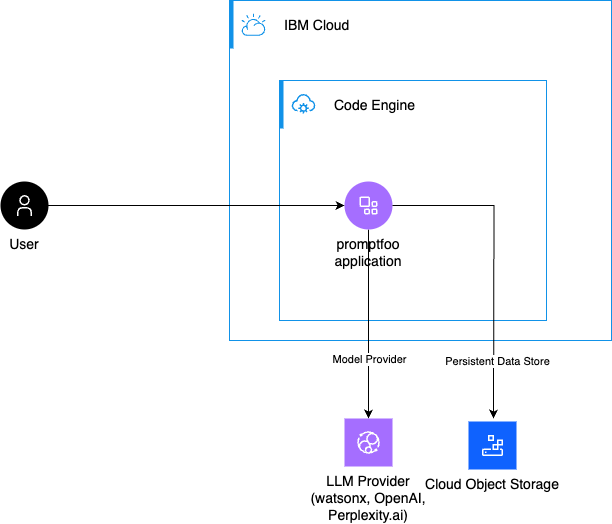
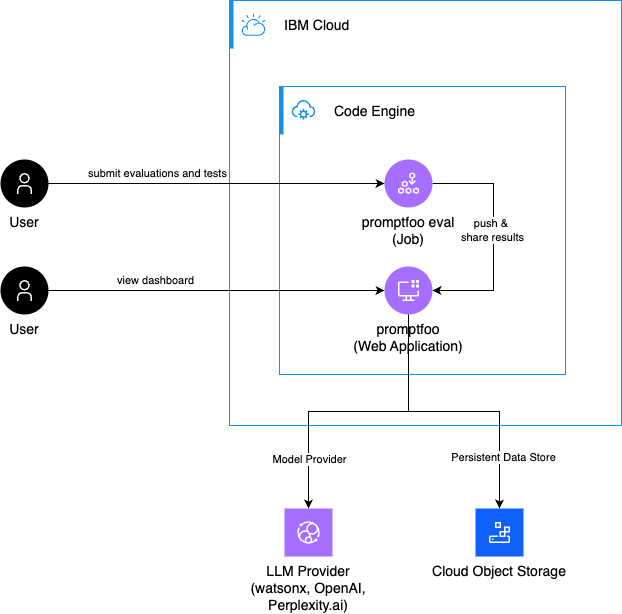
add job example to run promptfoo evaluations

Changed region(s): [[0.0, 0.0, 1.0, 1.0], [0.4346, 0.7328, 0.5588, 0.7634], [0.8693, 0.5802, 0.9003, 0.6107]]

diff --git a/ai/promptfoo/README.md b/ai/promptfoo/README.md
@@ -16,7 +16,7 @@
 
 ## Why Code Engine is a great fit
 
-Using **[IBM Cloud Code Engine](https://www.ibm.com/products/code-engine)** you can host promptfoo's web UI and create a centralized hub for your team's LLM testing and evaluation workflows.
+Using **[IBM Cloud Code Engine](https://www.ibm.com/products/code-engine)** you can run promptfoo evaluations in parallel & scale and host promptfoo's web UI to create a centralized hub for your team's LLM testing and evaluation workflows.
 
 - **Managed runtime:** Code Engine runs containers without managing servers, lowering operational overhead.
 - **Public endpoints:** Apps get a reachable URL out of the box, making it easy to share test results, red-team findings, and evaluation reports with your team.
@@ -24,6 +24,8 @@ Using **[IBM Cloud Code Engine](https://www.ibm.com/products/code-engine)** you 
 - **Integrates with COS:** Object storage (IBM Cloud Object Storage) can be mounted as a persistent data store for test results, configurations, datasets, and historical comparisons.
 - **Secure secrets & PDS:** Use Code Engine secrets and Persistent Data Stores (PDS) to store credentials and mount COS buckets securely.
 - **Team collaboration:** Centralized deployment enables teams to share test suites, compare results, and maintain a single source of truth for LLM quality metrics.
+- **Batch Jobs:** Use Code Engine jobs to run evaluations and tests asynchronously and in parallel
+- **Cron Trigger:** Schedule jobs based on a timer to run tests, collect data, and generate reports
 
 ## Deploy 
 
@@ -77,6 +79,7 @@ You can run promptfoo evaluations locally and share the results with your deploy
 - Run evaluations on your local machine with your preferred configuration
 - View and share results through the hosted web UI
 - Collaborate with team members by pointing them to the shared URL
+
 
 ### Setup
 
@@ -136,13 +139,67 @@ promptfoo eval
 promptfoo share
 ```
 
-This will open the local viewer, but you can also access the shared results through your deployed Code Engine URL.
+### Running evaluations asynchronously
 
-![](./images/promptfoo_ui.png)
+If you need to run many evaluations you can run them as [Code Engine jobs](https://cloud.ibm.com/docs/codeengine?topic=codeengine-cebatchjobs) asynchronously and in parallel within the same project. 
+
+```bash
+# create a config map from the promptfooconfig.yaml file
+ibmcloud ce configmap create -n promptfooconfig --from-file promptfooconfig.yaml
+
+# submit the job
+ibmcloud ce jobrun submit -n promptfoo-eval-1 --mount-configmap /app/config=promptfooconfig --image ghcr.io/promptfoo/promptfoo:latest --command promptfoo --arg eval --arg "-c" --arg "/app/config/promptfooconfig.yaml" 
+
+# view logs of the job run
+ibmcloud ce jobrun logs -n promptfoo-eval-1
+```
+
+The results will look as follows:
+
+```
+promptfoo-eval-1-0-0/promptfoo-eval-1:
+Starting evaluation eval-LcA-2026-03-18T16:09:03
+Running 4 test cases (up to 4 at a time)...
+Creating cache folder at /home/promptfoo/.promptfoo/cache.
+
+┌────────────────────────────────────────┬────────────────────────────────────────┬────────────────────────────────────────┐
+│ topic                                  │ [sonar-pro] Write a tweet about        │ [sonar-pro] Write a concise, funny     │
+│                                        │ {{topic}}                              │ tweet about {{topic}}                  │
+├────────────────────────────────────────┼────────────────────────────────────────┼────────────────────────────────────────┤
+│ bananas                                │ [PASS] Bananas are booming! 🌍 Global  │ [PASS] "Why did the banana go to       │
+│                                        │ market hitting $147.82B in 2026, up    │ therapy? It had too many emotional     │
+│                                        │ 3.1% YoY, fueled by health perks like  │ **peelings** and couldn't find its     │
+│                                        │ potassium & fiber. Rwanda leads per    │ a-peel!"[1][2]                         │
+│                                        │ capita at 116kg/year—who's stocking    │                                        │
+│                                        │ up? 🍌📈[1][4]                         │                                        │
+├────────────────────────────────────────┼────────────────────────────────────────┼────────────────────────────────────────┤
+│ avocado toast                          │ [PASS] Gordon Ramsay loves **avocado   │ [PASS] Here are some tweet-ready       │
+│                                        │ toast** done right—with black sesame   │ avocado toast jokes you can use:       │
+│                                        │ seeds, lemon zest, chili flakes,       │ **"Toast got real. That's avo toast to │
+│                                        │ chorizo & tomatoes—but he's ready to   │ perfection."**[1]                      │
+│                                        │ scream over lazy "smashed avocado"     │ **"I came for toast but stayed for the │
+│                                        │ everywhere in 2026! Elevate it, chefs! │ avo vibes."**[1]                       │
+│                                        │ 🍞🥑🔥[1]                              │ **"Brunch without avocado is toast     │
+│                                        │                                        │ without purpose."**[1]                 │
+│                                        │                                        │ **"You're the...                       │
+└────────────────────────────────────────┴────────────────────────────────────────┴────────────────────────────────────────┘
+✓ Eval complete
+
+Total Tokens: 334
+  Eval: 334 (32 prompt, 302 completion)
+
+Results: ✓ 4 passed, 0 failed, 0 errors (100%)
+Duration: 5s (concurrency: 4)
+
+Progress: 4/4 results shared (100%)
+» ✓ https://promptfoo.app/eval/eval-gsm-2026-03-18T16:09:03
+```
 
 ### Sharing results
 
 When you run `promptfoo eval` with the `sharing.apiBaseUrl` configured, your evaluation results are automatically uploaded to the deployed application. Team members can then access these results by visiting the Code Engine URL.
+
+![](./images/promptfoo_ui.png)
 
 **Benefits:**
 - **Centralized results:** All team members can view evaluation results in one place
